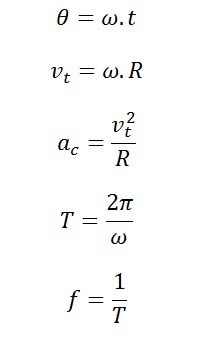
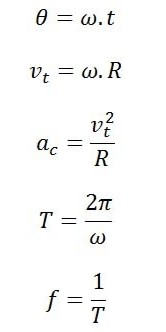
modifica el software y las imagenes

diff --git a/CalculadoraSimuladora.html b/CalculadoraSimuladora.html
@@ -112,7 +112,7 @@
       <div class="tab" data-tab="mcuv">Movimiento Circular Uniformemente Variado (MCUV)</div>
     </div>
 
-    <!-- MCU Tab content -->
+    <!-- Contenido de MCU Tab -->
     <div id="mcu" class="tab-content active">
       <img src="MCU.jpg" alt="Imagen MCU" />
       <div>
@@ -136,9 +136,9 @@
       <canvas id="mcu-canvas" width="400" height="400"></canvas>
     </div>
 
-    <!-- MCUV Tab content -->
+    <!-- Contenido de la pestaña MCUV -->
     <div id="mcuv" class="tab-content">
-      <img src="MCUV.jpg" alt="Imagen MCUV" />
+      <img src="MCUV.png" alt="Imagen MCUV" />
       <div>
         <label for="mcuv-aceleracion-angular">Aceleración Angular (rad/s²):</label>
         <input type="number" id="mcuv-aceleracion-angular" step="any" placeholder="Ej: 0.5" />
@@ -162,7 +162,7 @@
   </div>
 
 <script>
-  // Tabs switching
+  // conmutación de pestañas
   document.querySelectorAll('.tab').forEach(tab => {
     tab.addEventListener('click', () => {
       document.querySelectorAll('.tab').forEach(t => t.classList.remove('active'));
@@ -175,7 +175,7 @@
   let mcuAnimationFrameId = null;
   let mcuvAnimationFrameId = null;
 
-  // MCU calculations and simulation
+  // Cálculos y simulación de MCU
   const mcuFrecuenciaInput = document.getElementById('mcu-frecuencia');
   const mcuVelAngularInput = document.getElementById('mcu-velangular');
   const mcuAnguloInput = document.getElementById('mcu-angulo');
@@ -306,7 +306,7 @@
     requestAnimationFrame(step);
   }
 
-  // MCUV calculations and simulation
+  // Cálculos y simulación MCUV
   const mcuvAceleracionInput = document.getElementById('mcuv-aceleracion-angular');
   const mcuvVelIniInput = document.getElementById('mcuv-velangular-inicial');
   const mcuvAnguloInput = document.getElementById('mcuv-angulo');
